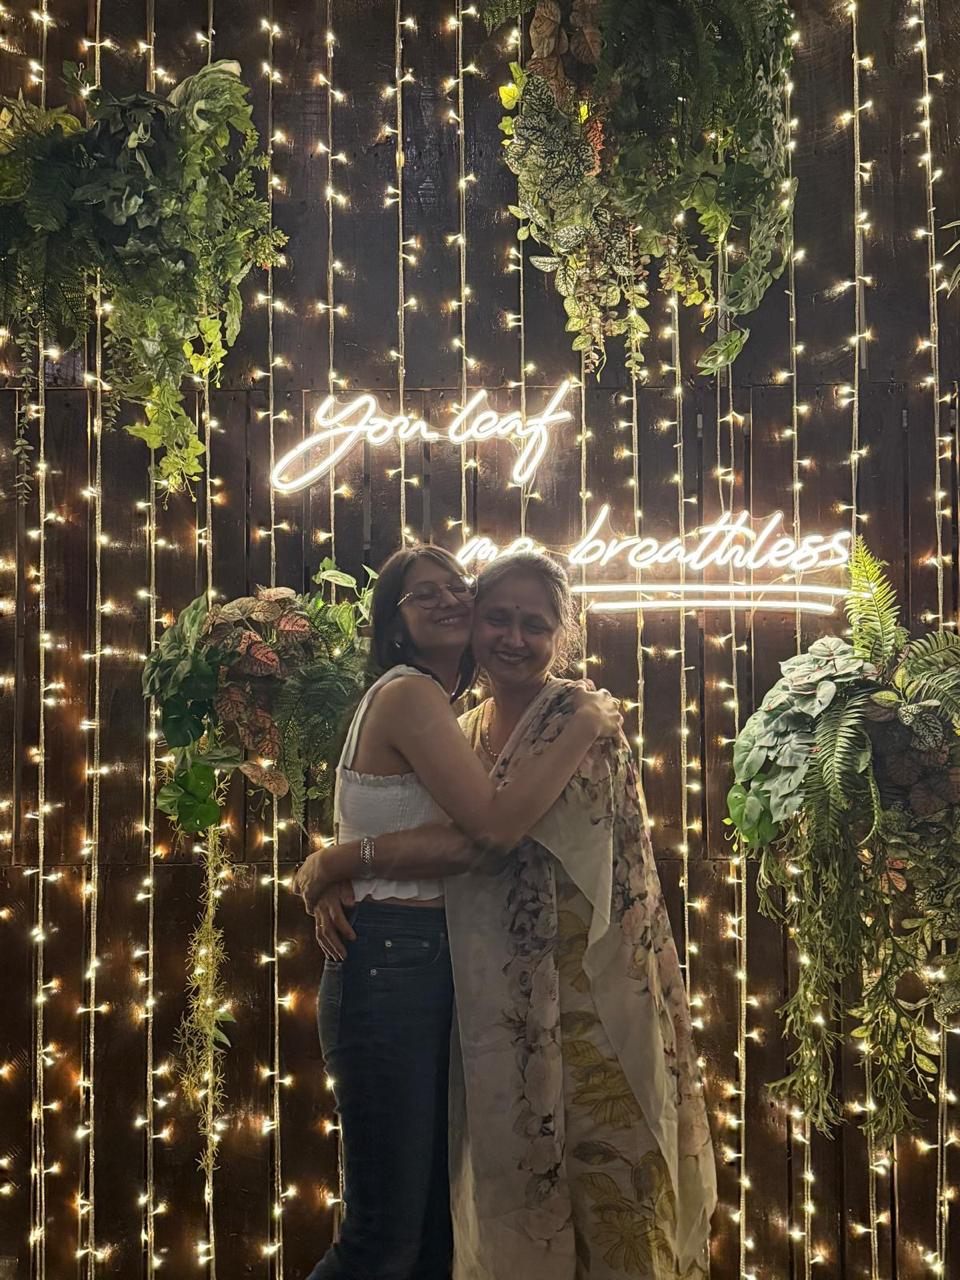
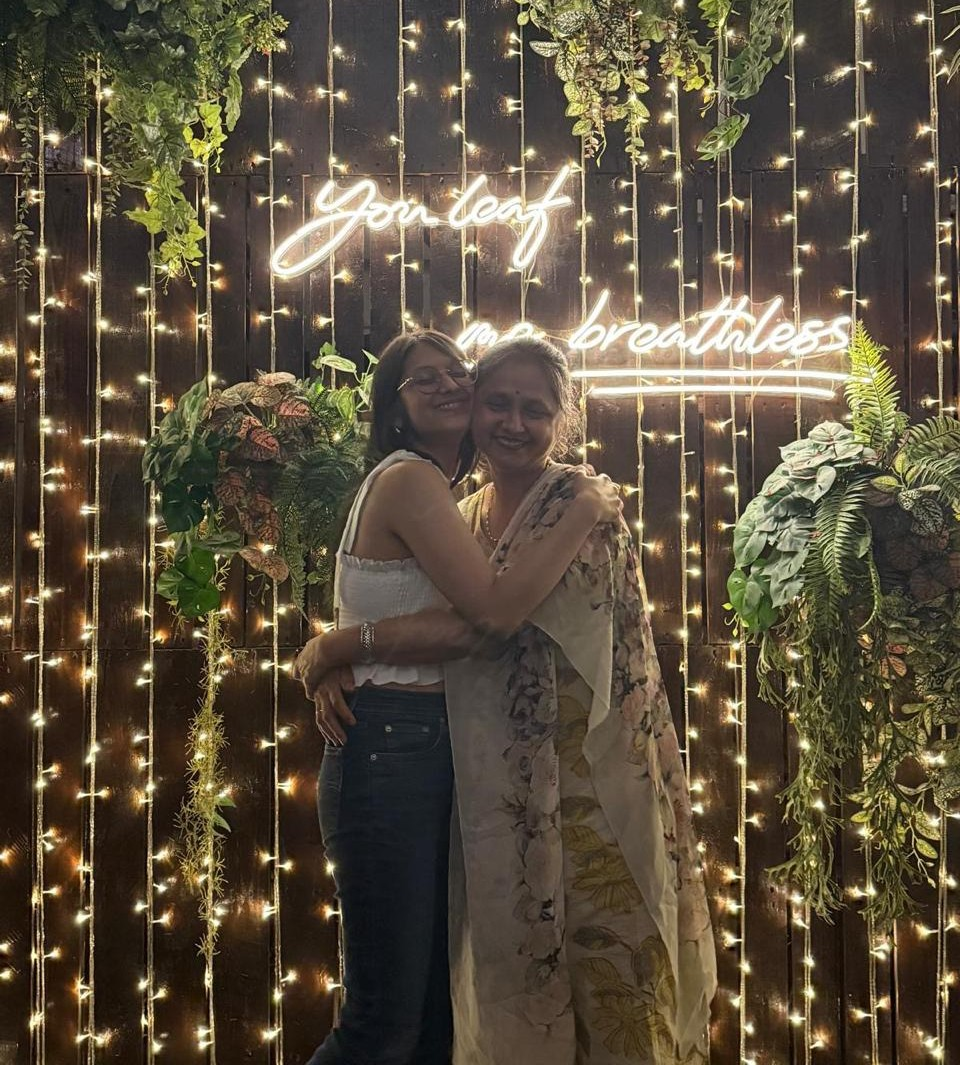
updates

diff --git a/index.html b/index.html
@@ -607,7 +607,7 @@
 
       .row-detail-image {
         position: relative;
-        aspect-ratio: 5 / 4;
+        aspect-ratio: 4 / 5;
         background: #2a1d2e;
         overflow: hidden;
         border: 1px solid var(--rule);
@@ -1410,7 +1410,7 @@
         {
           t: "tubelight",
           c: "#ee6a6a",
-          img: "https://raw.githubusercontent.com/BullsEye268/kakus_birthday_2026/refs/heads/main/Images/7.jpeg",
+          img: "https://raw.githubusercontent.com/BullsEye268/kakus_birthday_2026/refs/heads/main/Images/7_2.jpeg",
           body: "You glow even when you don't mean to. The nickname is a fact, not a joke. A little slow to start, and then suddenly — fully, brilliantly on.",
         },
         {